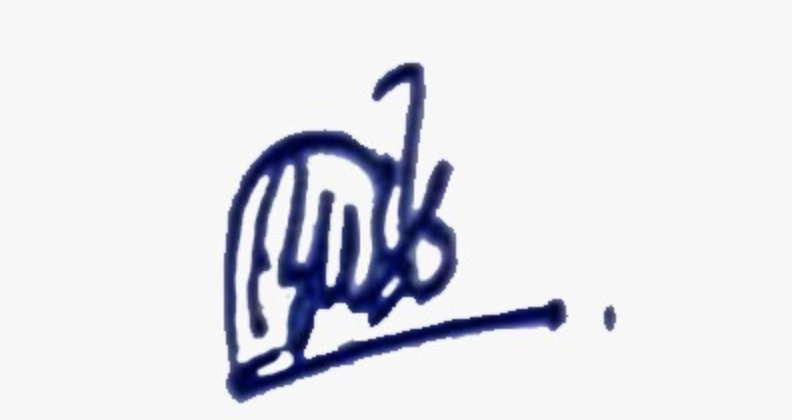
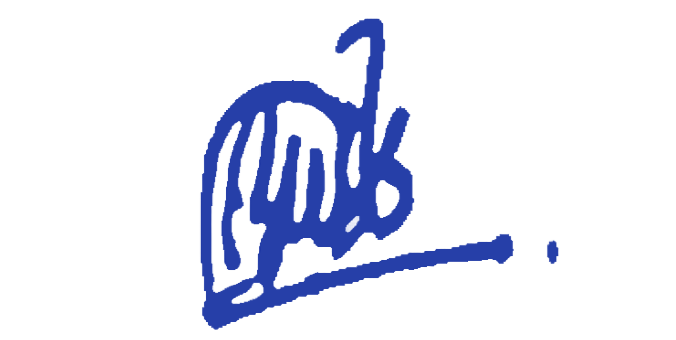
refactor: replace local canvas signature generation with static image assets and base64 constants

Changed region(s): [[0.2796, 0.0294, 0.7766, 0.9706], [0.8077, 0.7059, 0.8388, 0.7941]]

diff --git a/client/src/components/ReceiptCard.jsx b/client/src/components/ReceiptCard.jsx
@@ -1,84 +1,20 @@
-import React, { forwardRef, useState, useEffect } from 'react';
+import React, { forwardRef } from 'react';
+import { signatureDataUrl } from '../assets/signatureData.js';
 
-const ReceiptCard = forwardRef(({ receipt, qrDataURL, signatureDataURL }, ref) => {
+const ReceiptCard = forwardRef(({ receipt, qrDataURL }, ref) => {
   if (!receipt) return null;
 
-  // Colors based on the PDF image
-  const primaryBlue = '#1e3a8a'; // Dark blue for headers and lines
-  const textBlue = '#1e3a8a'; // Dark blue for general text
-  const alertRed = '#c23b3b'; // Red for instructions
-  const signatureBlue = '#1e40af'; // Solid blue for the signature text
-  const borderColor = '#1e3a8a'; // Black borders
-  const [processedSignature, setProcessedSignature] = useState(signatureDataURL || null);
-
-  useEffect(() => {
-    if (signatureDataURL) {
-      setProcessedSignature(signatureDataURL);
-      return;
-    }
-    let isMounted = true;
-    const processSignature = () => {
-      const img = new Image();
-      img.crossOrigin = "anonymous";
-      // Use absolute path to avoid any resolution issues
-      img.src = window.location.origin + "/signature.png";
-      
-      img.onload = () => {
-        if (!isMounted) return;
-        try {
-          const canvas = document.createElement('canvas');
-          const ctx = canvas.getContext('2d');
-          canvas.width = img.width;
-          canvas.height = img.height;
-          ctx.drawImage(img, 0, 0);
-          
-          const imageData = ctx.getImageData(0, 0, canvas.width, canvas.height);
-          const data = imageData.data;
-          
-          // Target blue color components for #1e40af
-          const targetR = 30;
-          const targetG = 64;
-          const targetB = 175;
-
-          for (let i = 0; i < data.length; i += 4) {
-            const r = data[i];
-            const g = data[i + 1];
-            const b = data[i + 2];
-            
-            // If pixel is light (background), make it transparent
-            if (r > 160 && g > 160 && b > 160) {
-              data[i + 3] = 0;
-            } else {
-              // If pixel is dark (signature ink), color it blue
-              data[i] = targetR;
-              data[i + 1] = targetG;
-              data[i + 2] = targetB;
-              // Slightly boost alpha for clearer signature
-              data[i + 3] = Math.min(255, data[i + 3] * 1.5);
-            }
-          }
-          
-          ctx.putImageData(imageData, 0, 0);
-          setProcessedSignature(canvas.toDataURL('image/png'));
-        } catch (err) {
-          console.error("Signature processing failed:", err);
-          // Fallback to original image if processing fails
-          setProcessedSignature(img.src);
-        }
-      };
-      img.onerror = () => {
-        console.error("Failed to load signature image from:", img.src);
-      };
-    };
-    processSignature();
-    return () => { isMounted = false; };
-  }, []);
+  const primaryBlue = '#1e3a8a';
+  const textBlue = '#1e3a8a';
+  const alertRed = '#c23b3b';
+  const signatureBlue = '#1e40af';
+  const borderColor = '#1e3a8a';
 
   return (
     <div
       ref={ref}
       id="receipt-card"
-      className="receipt-card bg-white relative overflow-hidden"
+      className="receipt-card bg-white relative overflow-visible"
       style={{
         width: '210mm',
         minHeight: '297mm',
@@ -173,14 +109,15 @@ const ReceiptCard = forwardRef(({ receipt, qrDataURL, signatureDataURL }, ref) =
         {/* ── Signature Section ── */}
         <div className="flex justify-end mb-0 px-4 mt-2 mb-1">
           <div className="text-center relative">
-            <div className="relative z-10 p-0" style={{ color: signatureBlue }}>
-              <img 
-                src={processedSignature || "/signature.png"} 
-                alt="Signature" 
-                className="h-16 mx-auto mb-0.5" 
-                style={!processedSignature ? { filter: 'brightness(0.8) sepia(1) hue-rotate(190deg) saturate(1000%)', mixBlendMode: 'multiply' } : {}} 
+            <div className="relative z-10 p-0">
+              {/* Using a direct base64 data URL to ensure it is always captured in the PDF without network issues */}
+              <img
+                src={signatureDataUrl}
+                alt="Signature"
+                className="w-32 h-auto mx-auto block mb-0.5"
+                onLoad={(e) => e.target.setAttribute('data-loaded', 'true')}
               />
-              <p className="text-[10px] font-bold devanagari leading-tight">
+              <p className="text-[10px] font-bold devanagari leading-tight text-[#1e40af]">
                 सक्षम प्राधिकरण संस्था सहा. आयुक्त<br />
                 झोपडपट्टी निर्मूलन व पुनर्वसन विभाग<br />
                 पिंपरी चिंचवड महानगरपालिका, पिंपरी १८
@@ -192,7 +129,6 @@ const ReceiptCard = forwardRef(({ receipt, qrDataURL, signatureDataURL }, ref) =
         {/* ── Instructions ── */}
         <div className="relative flex items-center justify-center mb-0.5">
           <div className="absolute w-full border-t-2 border-dashed" style={{ borderColor: borderColor }}></div>
-
         </div>
 
         <ol className="text-[10px] devanagari mb-4 mt-1 list-none font-bold leading-snug" style={{ color: alertRed }}>

diff --git a/client/src/pages/AdminDashboard.jsx b/client/src/pages/AdminDashboard.jsx
@@ -13,37 +13,9 @@ export default function AdminDashboard() {
   const { user: currentUser } = useAuth();
 
   const [printingReceipt, setPrintingReceipt] = useState(null);
-  const [globalSignature, setGlobalSignature] = useState(null);
   const hiddenReceiptRef = useRef(null);
 
   const apiUrl = import.meta.env.VITE_API_URL || 'http://localhost:5001';
-
-  // Pre-process signature once for the entire dashboard session
-  useEffect(() => {
-    const img = new Image();
-    img.crossOrigin = "anonymous";
-    img.src = window.location.origin + "/signature.png";
-    img.onload = () => {
-      const canvas = document.createElement('canvas');
-      const ctx = canvas.getContext('2d');
-      canvas.width = img.width;
-      canvas.height = img.height;
-      ctx.drawImage(img, 0, 0);
-      const imageData = ctx.getImageData(0, 0, canvas.width, canvas.height);
-      const data = imageData.data;
-      const targetR = 30, targetG = 64, targetB = 175;
-      for (let i = 0; i < data.length; i += 4) {
-        if (data[i] > 160 && data[i + 1] > 160 && data[i + 2] > 160) {
-          data[i + 3] = 0;
-        } else {
-          data[i] = targetR; data[i + 1] = targetG; data[i + 2] = targetB;
-          data[i + 3] = Math.min(255, data[i + 3] * 1.5);
-        }
-      }
-      ctx.putImageData(imageData, 0, 0);
-      setGlobalSignature(canvas.toDataURL('image/png'));
-    };
-  }, []);
 
   useEffect(() => {
     async function fetchReceipts() {
@@ -85,27 +57,29 @@ export default function AdminDashboard() {
           const element = hiddenReceiptRef.current;
           if (!element) return;
 
-          const imgData = await toPng(element, { 
-            quality: 1, 
-            pixelRatio: 3, 
-            cacheBust: true,
-            style: { 
+          // Double-call workaround for html-to-image data URL issues
+          await toPng(element, { quality: 1, pixelRatio: 3 });
+          const imgData = await toPng(element, {
+            quality: 1,
+            pixelRatio: 3,
+            fontEmbedCSS: true,
+            style: {
               backgroundColor: '#ffffff',
             }
           });
-          
+
           const pdf = new jsPDF({
             orientation: 'p',
             unit: 'mm',
             format: 'a4'
           });
-          
+
           // A4 dimensions in mm: 210 x 297
           const pdfWidth = 210;
           const margin = 10; // 10mm margin
           const imgWidth = pdfWidth - (margin * 2);
           const imgHeight = (element.offsetHeight * imgWidth) / element.offsetWidth;
-          
+
           pdf.addImage(imgData, 'PNG', margin, margin, imgWidth, imgHeight);
           pdf.save(`PCMC_Official_Bill_${printingReceipt.billNumber}.pdf`);
         } catch (err) {
@@ -134,10 +108,10 @@ export default function AdminDashboard() {
       const imageData = ctx.getImageData(0, 0, canvas.width, canvas.height);
       const data = imageData.data;
       for (let i = 0; i < data.length; i += 4) {
-        if (data[i] < 200 || data[i+1] < 200 || data[i+2] < 200) {
-           data[i] = 0;
-           data[i+1] = 0;
-           data[i+2] = 0;
+        if (data[i] < 200 || data[i + 1] < 200 || data[i + 2] < 200) {
+          data[i] = 0;
+          data[i + 1] = 0;
+          data[i + 2] = 0;
         }
       }
       ctx.putImageData(imageData, 0, 0);
@@ -303,12 +277,19 @@ export default function AdminDashboard() {
 
       {/* Hidden Receipt for PDF Generation - capturing exact A4 width */}
       {printingReceipt && (
-        <div className="fixed top-0 left-[-9999px] overflow-visible bg-white shadow-none border-none">
-          <ReceiptCard 
-            receipt={printingReceipt} 
-            qrDataURL={printingReceipt.qrCodeDataURL} 
-            signatureDataURL={globalSignature}
-            ref={hiddenReceiptRef} 
+        <div style={{ 
+          position: 'fixed', 
+          top: 0, 
+          left: 0, 
+          width: '210mm', 
+          zIndex: -50, 
+          opacity: 0, 
+          pointerEvents: 'none' 
+        }}>
+          <ReceiptCard
+            receipt={printingReceipt}
+            qrDataURL={printingReceipt.qrCodeDataURL}
+            ref={hiddenReceiptRef}
           />
         </div>
       )}

diff --git a/client/src/pages/OriginalReceiptView.jsx b/client/src/pages/OriginalReceiptView.jsx
@@ -1,10 +1,9 @@
-import { useEffect, useState } from 'react';
+import { useEffect, useState, useRef } from 'react';
 import { useParams } from 'react-router-dom';
 import axios from 'axios';
 import ReceiptCard from '../components/ReceiptCard';
 import { toPng } from 'html-to-image';
 import { jsPDF } from 'jspdf';
-import { useRef } from 'react';
 
 const API_URL = import.meta.env.VITE_API_URL || 'http://localhost:5001';
 
@@ -14,36 +13,8 @@ export default function OriginalReceiptView() {
   const [loading, setLoading] = useState(true);
   const [error, setError] = useState('');
   const [blackQr, setBlackQr] = useState(null);
-  const [signatureDataURL, setSignatureDataURL] = useState(null);
   const receiptRef = useRef(null);
   const [downloading, setDownloading] = useState(false);
-
-  useEffect(() => {
-    // Process signature
-    const sigImg = new Image();
-    sigImg.crossOrigin = "anonymous";
-    sigImg.src = window.location.origin + "/signature.png";
-    sigImg.onload = () => {
-      const canvas = document.createElement('canvas');
-      const ctx = canvas.getContext('2d');
-      canvas.width = sigImg.width;
-      canvas.height = sigImg.height;
-      ctx.drawImage(sigImg, 0, 0);
-      const imageData = ctx.getImageData(0, 0, canvas.width, canvas.height);
-      const data = imageData.data;
-      const targetR = 30, targetG = 64, targetB = 175;
-      for (let i = 0; i < data.length; i += 4) {
-        if (data[i] > 160 && data[i + 1] > 160 && data[i + 2] > 160) {
-          data[i + 3] = 0;
-        } else {
-          data[i] = targetR; data[i + 1] = targetG; data[i + 2] = targetB;
-          data[i + 3] = Math.min(255, data[i + 3] * 1.5);
-        }
-      }
-      ctx.putImageData(imageData, 0, 0);
-      setSignatureDataURL(canvas.toDataURL('image/png'));
-    };
-  }, []);
 
   const handleDownload = async () => {
     if (!receiptRef.current) return;
@@ -51,28 +22,30 @@ export default function OriginalReceiptView() {
     try {
       const element = receiptRef.current.querySelector('.receipt-card');
       if (!element) throw new Error('Receipt element not found');
-      
-      // Slight delay to ensure images (like signature) are rendered
-      await new Promise(r => setTimeout(r, 500));
 
-      const imgData = await toPng(element, { 
-        quality: 1, 
-        pixelRatio: 3, 
-        cacheBust: true,
+      // Short delay to ensure all images are rendered in the DOM
+      await new Promise(r => setTimeout(r, 300));
+
+      // Double-call workaround for html-to-image data URL issues
+      await toPng(element, { quality: 1, pixelRatio: 3 });
+      const imgData = await toPng(element, {
+        quality: 1,
+        pixelRatio: 3,
+        fontEmbedCSS: true,
         style: { backgroundColor: '#ffffff' }
       });
-      
+
       const pdf = new jsPDF({
         orientation: 'p',
         unit: 'mm',
         format: 'a4'
       });
-      
+
       const pdfWidth = 210;
       const margin = 10; // 10mm margin
       const imgWidth = pdfWidth - (margin * 2);
       const imgHeight = (element.offsetHeight * imgWidth) / element.offsetWidth;
-      
+
       pdf.addImage(imgData, 'PNG', margin, margin, imgWidth, imgHeight);
       pdf.save(`PCMC_Official_Bill_${receipt.billNumber}.pdf`);
     } catch (err) {
@@ -91,7 +64,7 @@ export default function OriginalReceiptView() {
       try {
         const res = await axios.get(`${API_URL}/api/receipt/${receiptId}`);
         setReceipt(res.data.receipt);
-        
+
         // Convert QR to black if it exists
         if (res.data.receipt?.qrCodeDataURL) {
           const img = new Image();
@@ -105,8 +78,8 @@ export default function OriginalReceiptView() {
             const imageData = ctx.getImageData(0, 0, canvas.width, canvas.height);
             const data = imageData.data;
             for (let i = 0; i < data.length; i += 4) {
-              if (data[i] < 200 || data[i+1] < 200 || data[i+2] < 200) {
-                 data[i] = 0; data[i+1] = 0; data[i+2] = 0;
+              if (data[i] < 200 || data[i + 1] < 200 || data[i + 2] < 200) {
+                data[i] = 0; data[i + 1] = 0; data[i + 2] = 0;
               }
             }
             ctx.putImageData(imageData, 0, 0);
@@ -145,13 +118,13 @@ export default function OriginalReceiptView() {
   return (
     <div className="min-h-screen bg-slate-50 py-8 flex flex-col items-center">
       <div className="mb-4">
-        <button 
-          onClick={() => window.print()} 
+        <button
+          onClick={() => window.print()}
           className="bg-blue-600 text-white px-6 py-2 rounded font-bold shadow-md print:hidden mr-4"
         >
           Print (Browser)
         </button>
-        <button 
+        <button
           onClick={handleDownload}
           disabled={downloading}
           className="bg-green-600 text-white px-6 py-2 rounded font-bold shadow-md print:hidden disabled:bg-green-400"
@@ -160,10 +133,9 @@ export default function OriginalReceiptView() {
         </button>
       </div>
       <div className="bg-white shadow-xl overflow-x-auto w-full max-w-[210mm]" ref={receiptRef}>
-        <ReceiptCard 
-          receipt={receipt} 
-          qrDataURL={blackQr || receipt.qrCodeDataURL} 
-          signatureDataURL={signatureDataURL}
+        <ReceiptCard
+          receipt={receipt}
+          qrDataURL={blackQr || receipt.qrCodeDataURL}
         />
       </div>
     </div>